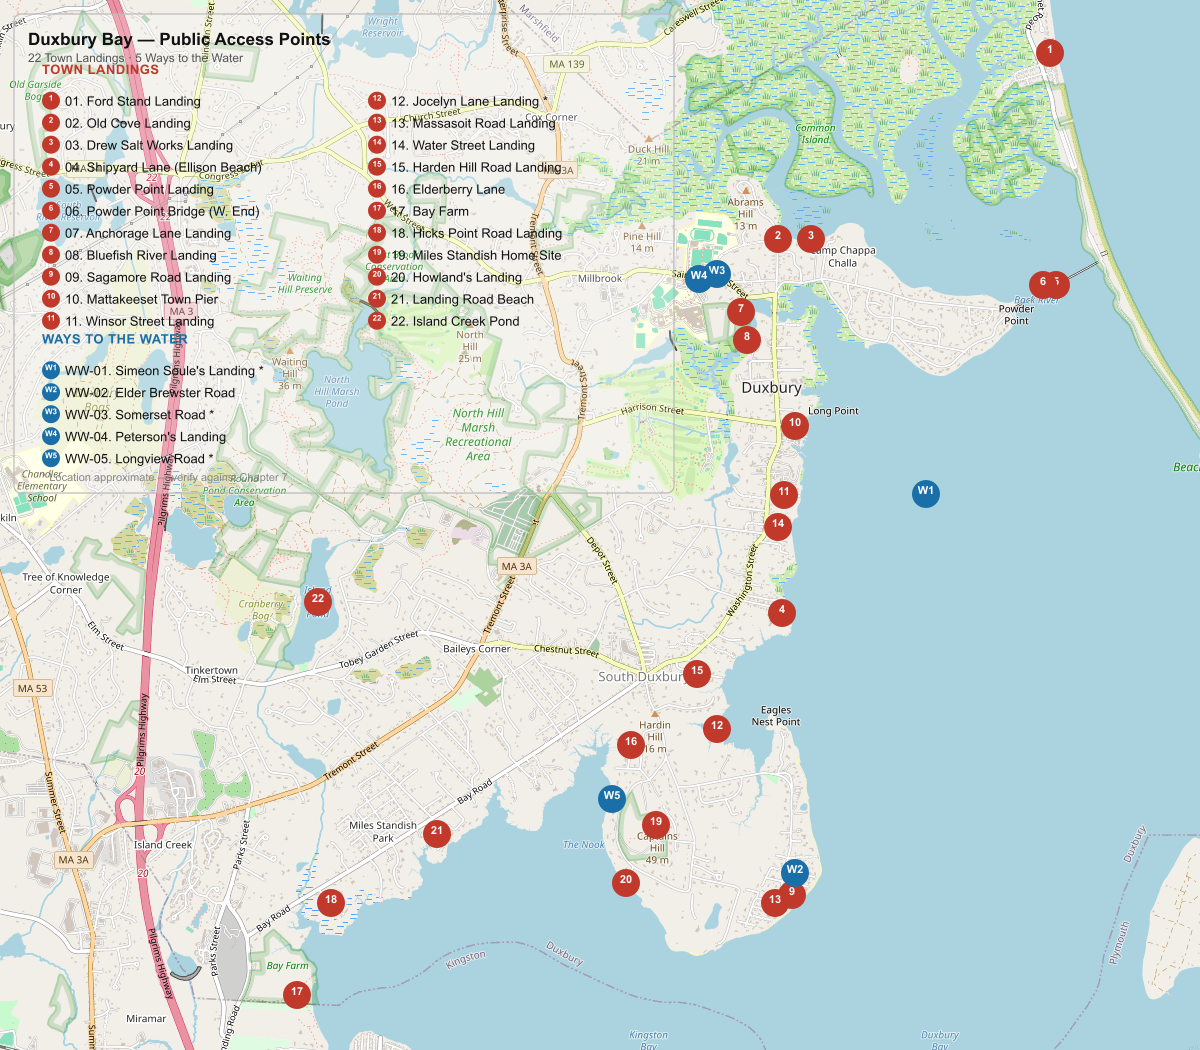
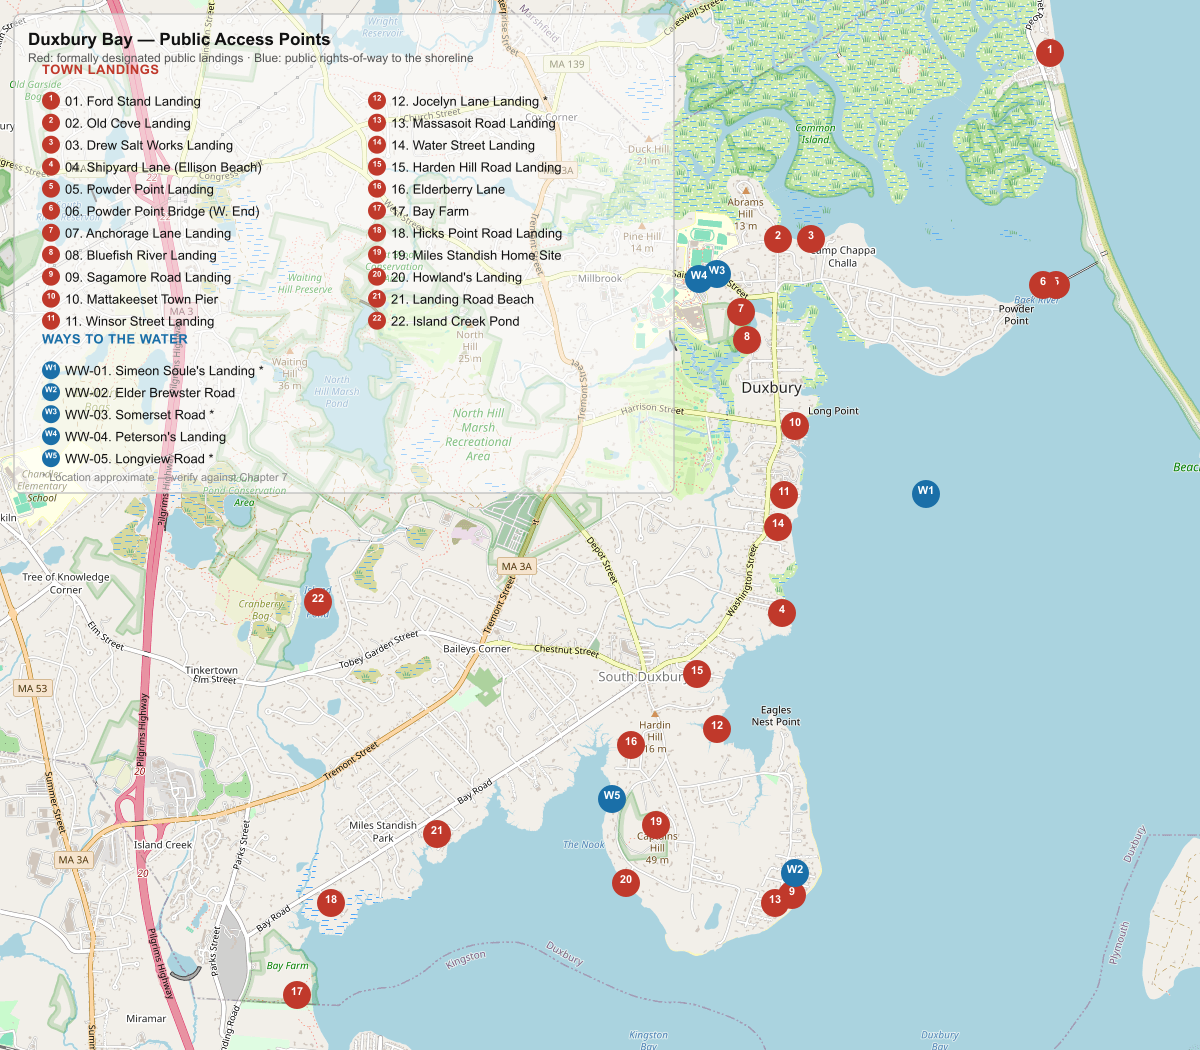
Increase legend opacity to 50%; update subheading to explain marker types
- fill-opacity: 0.20 → 0.50
- Subheading now reads: "Red: formally designated public landings · Blue: public rights-of-way to the shoreline"

diff --git a/all-sites-map.html b/all-sites-map.html
@@ -44,9 +44,9 @@
     <svg id="overlay" width="1200" height="1050" viewBox="0 0 1200 1050"
          xmlns="http://www.w3.org/2000/svg">
       
-  <rect x="14" y="14" width="660" height="479" rx="7" fill="white" fill-opacity="0.20" stroke="#bbb" stroke-width="1.2"/>
+  <rect x="14" y="14" width="660" height="479" rx="7" fill="white" fill-opacity="0.50" stroke="#bbb" stroke-width="1.2"/>
   <text x="28" y="45" font-size="17" font-weight="bold" fill="#111" font-family="Arial,sans-serif">Duxbury Bay — Public Access Points</text>
-  <text x="28" y="62" font-size="12" fill="#555" font-family="Arial,sans-serif">22 Town Landings · 5 Ways to the Water  |  Click a marker to open site details</text>
+  <text x="28" y="62" font-size="12" fill="#555" font-family="Arial,sans-serif">Red: formally designated public landings  ·  Blue: public rights-of-way to the shoreline  |  Click a marker for details</text>
   <g transform="translate(28,14)" font-family="Arial,sans-serif"><text x="14" y="60" font-size="13" font-weight="bold" fill="#C0392B" font-family="Arial,sans-serif" letter-spacing="0.5">TOWN LANDINGS</text>
     <circle cx="23" cy="86.7" r="9" fill="#C0392B"/>
     <text x="23" y="86.7" text-anchor="middle" dominant-baseline="central" font-size="8" font-weight="bold" fill="white" font-family="Arial,sans-serif">1</text>

diff --git a/generate-html.js b/generate-html.js
@@ -97,9 +97,9 @@ function legendSVG() {
 
   const boxW=col2X+320, boxH=noteY+12;
   return `
-  <rect x="${pad}" y="${pad}" width="${boxW}" height="${boxH}" rx="7" fill="white" fill-opacity="0.20" stroke="#bbb" stroke-width="1.2"/>
+  <rect x="${pad}" y="${pad}" width="${boxW}" height="${boxH}" rx="7" fill="white" fill-opacity="0.50" stroke="#bbb" stroke-width="1.2"/>
   <text x="${pad+pad}" y="${pad+pad+17}" font-size="17" font-weight="bold" fill="#111" font-family="Arial,sans-serif">Duxbury Bay — Public Access Points</text>
-  <text x="${pad+pad}" y="${pad+pad+34}" font-size="12" fill="#555" font-family="Arial,sans-serif">${TOWN_LANDINGS.length} Town Landings · ${WAYS_TO_WATER.length} Ways to the Water  |  Click a marker to open site details</text>
+  <text x="${pad+pad}" y="${pad+pad+34}" font-size="12" fill="#555" font-family="Arial,sans-serif">Red: formally designated public landings  ·  Blue: public rights-of-way to the shoreline  |  Click a marker for details</text>
   <g transform="translate(${pad+pad},${pad})" font-family="Arial,sans-serif">${rows}</g>`;
 }
 

diff --git a/generate-all-sites-map.js b/generate-all-sites-map.js
@@ -154,13 +154,13 @@ function buildOverlaySVG() {
 
   const legendSVG = `
   <rect x="${pad}" y="${pad}" width="${boxW}" height="${boxH}"
-        rx="7" fill="white" fill-opacity="0.20" stroke="#bbb" stroke-width="1.2"/>
+        rx="7" fill="white" fill-opacity="0.50" stroke="#bbb" stroke-width="1.2"/>
   <text x="${pad + pad}" y="${pad + pad + 17}"
         font-size="17" font-weight="bold" fill="#111"
         font-family="Arial, Helvetica, sans-serif">Duxbury Bay — Public Access Points</text>
   <text x="${pad + pad}" y="${pad + pad + 17 + 17}"
         font-size="12" fill="#555" font-family="Arial, Helvetica, sans-serif"
-        >${TOWN_LANDINGS.length} Town Landings  ·  ${WAYS_TO_WATER.length} Ways to the Water</text>
+        >Red: formally designated public landings  ·  Blue: public rights-of-way to the shoreline</text>
   <g transform="translate(${pad + pad}, ${pad})" font-family="Arial, Helvetica, sans-serif">
     ${rows}
   </g>`;
